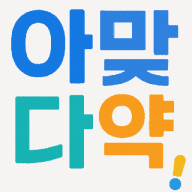
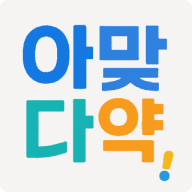
fix: 아이콘 변경. 시간 인풋 css 미적용 문제 수정

diff --git a/components/feature/medicines/form/MedicineSchedulesField.tsx b/components/feature/medicines/form/MedicineSchedulesField.tsx
@@ -223,7 +223,7 @@ export function MedicineSchedulesField() {
           <label className="text-sm font-bold">복용 시간</label>
 
           {fields.map((f, index) => (
-            <div key={f.__key} className="flex flex-col gap-2 items-center">
+            <div key={f.__key} className="flex flex-col gap-2 items-center ">
               <div className="flex gap-2 items-center justify-between w-full">
                 {/* ✅ 도메인 PK(id) 숨김 input → diff용으로 서버에 항상 전달 */}
                 <input
@@ -264,29 +264,61 @@ export function MedicineSchedulesField() {
                     };
 
                     return (
-                      <div className="w-full border-pilltime-grayLight">
+                      <div className="!border-pilltime-grayLight grow !ml-1">
                         {hasTouch ? (
                           // ✅ 모바일: 네이티브 time 입력
-                          <Input
-                            type="time"
-                            step={300} // 5분 간격
-                            min="00:00"
-                            max="23:59"
-                            value={field.value || ""}
-                            onChange={(e) => {
-                              const raw = e.target.value; // ex) "12:03"
-                              const snapped = snapToStep(raw); // ex) "12:05"
-                              handleChange(snapped);
-                              // 사용자가 고른 값과 다르면 토스트/문구:
-                              if (raw !== snapped)
-                                toast.info(
-                                  `5분 간격으로 자동 입력돼요 - ${snapped}`
-                                );
-                            }}
-                            onBlur={field.onBlur}
-                            className="!px-2 !border-pilltime-grayLight !shadow-md max-w-[90%] !ml-1 transition-transform duration-200 ease-in-out scale-100 cursor-pointer touch-manipulation active:scale-95 hover:scale-95"
-                            aria-label="복용 시간"
-                          />
+                          <div
+                            className={[
+                              // --- shadcn Input 기본 클래스 ---
+                              "relative flex items-center h-9.5 w-full rounded-md border border-input bg-transparent",
+                              "!px-2 !py-1 text-base shadow-sm transition-colors md:text-sm",
+                              "focus-within:outline-none focus-within:ring-1 focus-within:ring-ring",
+                              "disabled:cursor-not-allowed disabled:opacity-50",
+                              // --- 인풋에 준 추가 클래스 ---
+                              "!border-pilltime-grayLight w-full ",
+                            ].join(" ")}
+                          >
+                            {/* 화면에 보이는 값(placeholder 역할 포함) */}
+                            <span
+                              className={[
+                                "pointer-events-none select-none w-full ",
+                                field.value
+                                  ? "!text-black"
+                                  : "!text-pilltime-grayDark/50",
+                              ].join(" ")}
+                            >
+                              {field.value
+                                ? dayjs(
+                                    field.value,
+                                    ["HH:mm", "HH:mm:ss"],
+                                    true
+                                  )
+                                    .locale("ko")
+                                    .format("A hh:mm")
+                                : "약 먹을 시간을 입력하세요."}
+                            </span>
+                            <input
+                              type="time"
+                              step={300}
+                              min="00:00"
+                              max="23:59"
+                              value={field.value || ""}
+                              onChange={(e) => {
+                                const raw = e.target.value; // ex) "12:03"
+                                const snapped = snapToStep(raw); // ex) "12:05"
+                                handleChange(snapped);
+                                if (raw !== snapped) {
+                                  toast.info(
+                                    `5분 간격으로 자동 입력돼요 - ${snapped}`
+                                  );
+                                }
+                              }}
+                              onBlur={field.onBlur}
+                              aria-label="복용 시간"
+                              className="peer absolute inset-0 h-full w-full opacity-0 cursor-pointer touch-manipulation focus-visible:outline-none"
+                              disabled={false}
+                            />
+                          </div>
                         ) : (
                           // ✅ 태블릿/데스크톱: antd TimePicker
                           <TimePicker
@@ -339,7 +371,7 @@ export function MedicineSchedulesField() {
                   type="button"
                   variant="ghost"
                   size="sm"
-                  className="!text-red-500 transition-transform duration-200 ease-in-out scale-100 cursor-pointer touch-manipulation active:scale-95 hover:scale-95"
+                  className="!text-red-500 !ml-0.5 transition-transform duration-200 ease-in-out scale-100 cursor-pointer touch-manipulation active:scale-95 hover:scale-95"
                   onClick={() => remove(index)}
                 >
                   삭제
